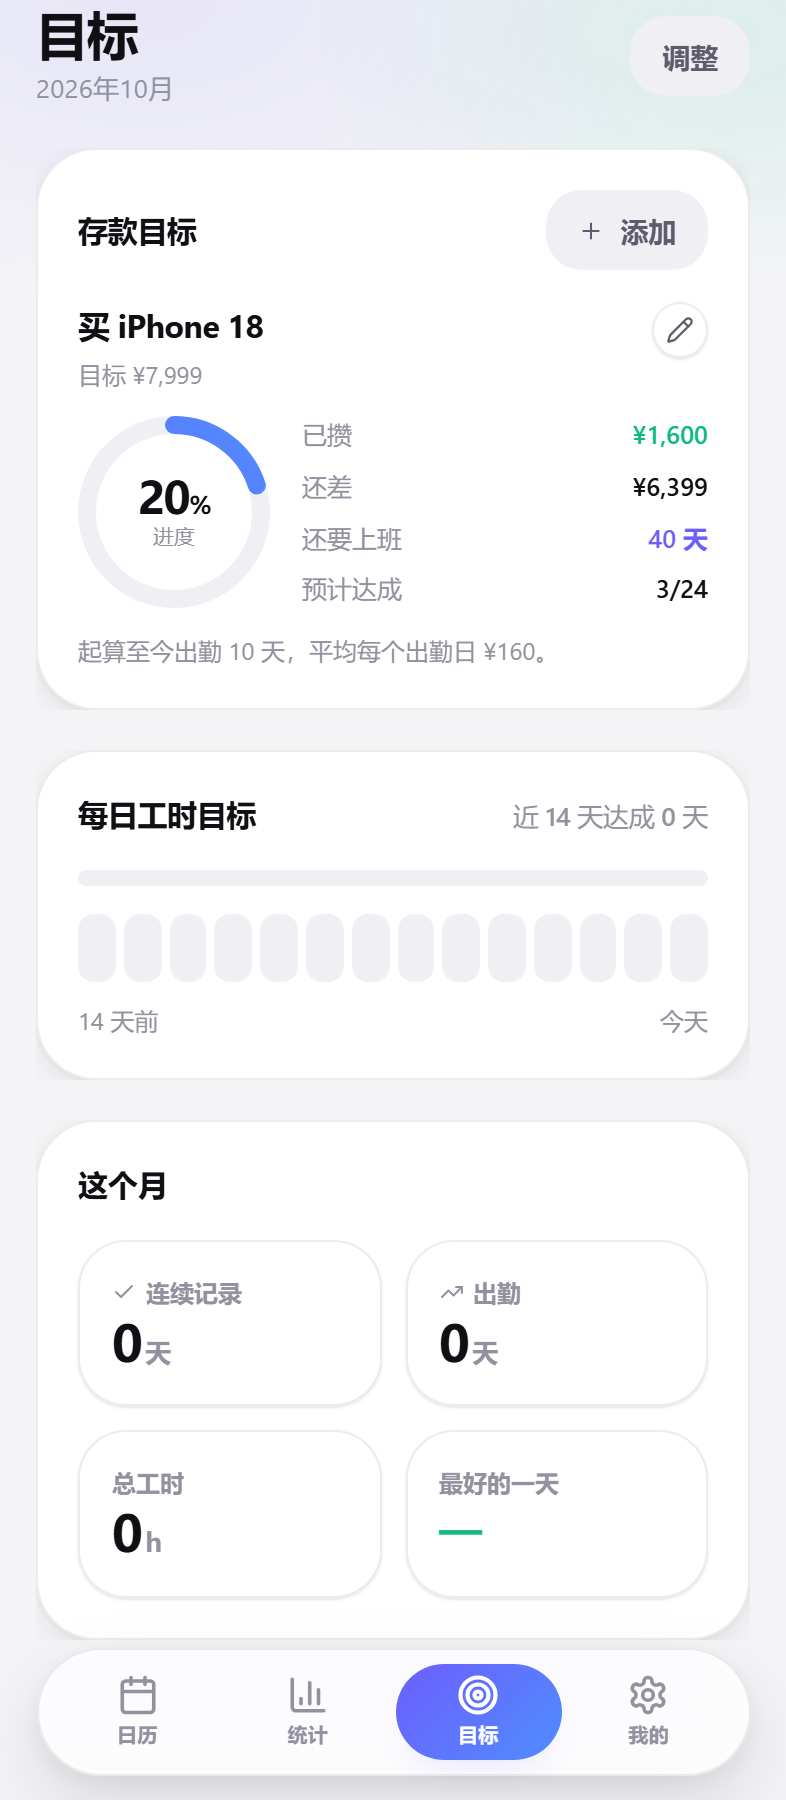
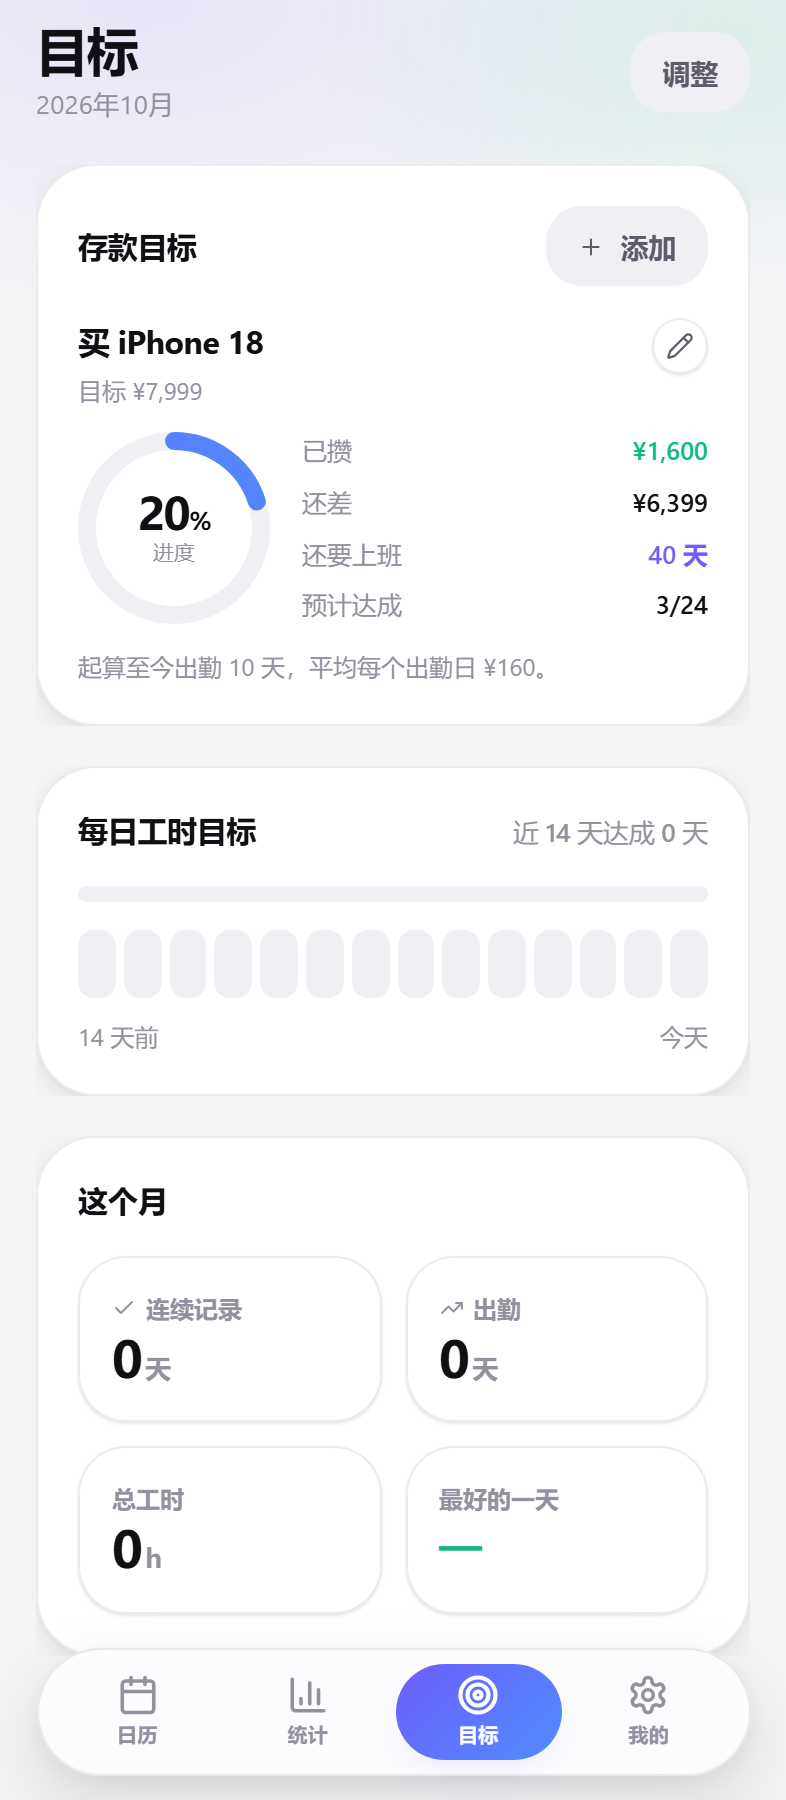
Releases 页一直是空的 —— 修好并接入版本号
用户问「Releases 里面你不更新吗」，去查了一下：**一个 Release 都没有，连 tag 都没有**。

根因：
  工作流里那步写的是 if: github.event_name == 'release'，
  意思是「只有被 release 事件触发时才跑」—— 但本工作流是 push 触发的，
  所以这一步从来没执行过。

改动：
1. 改成 if: github.event_name == 'push'，固定 tag=latest 滚动更新同一个 Release
   - 下载链接永久有效、永远是构建：releases/latest/download/工时记.apk
   - 每次推送到主分支自动重新构建并更新附件
   - 不再需要用户去 Actions 里翻产物、解压 zip（产物只留 90 天）
2. 版本号从 package.json 注入 APK（scripts/inject-signing.py）
   - versionName = 版本号；versionCode = major*10000+minor*100+patch（只增不减）
   - 目的：Releases 页写的版本号 == 手机「应用信息」里看到的版本号
   - 顺手修了该脚本在 Windows 上必崩的问题：Python stdout 默认 GBK，
     打不出 ✓ 和中文会抛 UnicodeEncodeError（CI 在 ubuntu 上是 UTF-8 所以没暴露）
3. CI 新增「校验 APK 里的版本号与 package.json 一致」：用 aapt2 dump badging
   读真实 APK 的 versionName 对比，不一致直接失败
4. 新增 scripts/check-inject-signing.mjs：20 项断言（幂等、versionCode 严格递增、
   非 semver 回退、缺文件时非零退出），已进 npm run verify 与 CI

验证：
- check:signing 20 项通过；versionCode 1.0.0→10000 / 1.0.1→10001 / 1.1.0→10100 / 2.0.0→20000
- 工作流 YAML 用 PyYAML 解析通过，26 个步骤顺序正确
- verify 全绿：工资 53 / 存款 67 / 签名注入 20 / 节假日 171 / Android 资源 8 / typecheck / build
- 版本号 1.0.0 → 1.1.0（本轮加了批量记账、累计、存款目标）

diff --git a/scripts/inject-signing.py b/scripts/inject-signing.py
@@ -20,6 +20,15 @@ import re
 import sys
 from pathlib import Path
 
+# Windows 上 Python 的 stdout 默认是系统 ANSI（中文机器上是 GBK），
+# 打不出 ✓ 和中文，直接抛 UnicodeEncodeError 让脚本失败。
+# CI 跑在 ubuntu 上不会有这问题，但本地一跑就莫名挂掉 —— 统一强制 UTF-8。
+for _stream in (sys.stdout, sys.stderr):
+    try:
+        _stream.reconfigure(encoding="utf-8")
+    except Exception:  # noqa: BLE001
+        pass
+
 PATH = Path("android/app/build.gradle")
 
 if not PATH.exists():
@@ -73,6 +82,36 @@ else:
         )
         print("✓ 已为 debug 指定固定签名")
 
+# ---------- 版本号：从 package.json 注入 ----------
+# 目的：Releases 页写的版本号，和装到手机后在「应用信息」里看到的版本号一致。
+# versionCode 用 major*10000 + minor*100 + patch，保证只增不减。
+import json
+
+PKG = Path("package.json")
+VERSION = "1.0.0"
+if PKG.exists():
+    try:
+        VERSION = str(json.loads(PKG.read_text(encoding="utf-8")).get("version") or "1.0.0")
+    except Exception as e:  # noqa: BLE001
+        print(f"· 读 package.json 版本失败（{e}），回退 {VERSION}")
+
+_m = re.match(r"^(\d+)\.(\d+)\.(\d+)", VERSION)
+CODE = int(_m.group(1)) * 10000 + int(_m.group(2)) * 100 + int(_m.group(3)) if _m else 1
+
+if re.search(r"^\s*versionCode\s+\d+", src, re.M):
+    src = re.sub(r"^(\s*)versionCode\s+\d+", rf"\g<1>versionCode {CODE}", src, count=1, flags=re.M)
+    print(f"✓ versionCode → {CODE}")
+else:
+    print("· 未找到 versionCode，跳过")
+
+if re.search(r'^\s*versionName\s+"[^"]*"', src, re.M):
+    src = re.sub(
+        r'^(\s*)versionName\s+"[^"]*"', rf'\g<1>versionName "{VERSION}"', src, count=1, flags=re.M
+    )
+    print(f"✓ versionName → {VERSION}")
+else:
+    print("· 未找到 versionName，跳过")
+
 # 结构自检：大括号必须配平，否则 Gradle 直接语法报错
 depth = 0
 for ch in src:
@@ -93,6 +132,15 @@ for field in ("storeFile", "storePassword", "keyAlias", "keyPassword"):
     if not re.search(rf'{field} .*"', src):
         print(f"✗ {field} 的值缺少引号 —— Groovy 会报语法错误", file=sys.stderr)
         sys.exit(1)
+
+# 版本号自检：确认真的写进去了（写错版本号不会让构建失败，但会让人对不上号）
+if f'versionName "{VERSION}"' not in src:
+    print(f"✗ versionName 未写成功，期望 {VERSION}", file=sys.stderr)
+    sys.exit(1)
+if f"versionCode {CODE}" not in src:
+    print(f"✗ versionCode 未写成功，期望 {CODE}", file=sys.stderr)
+    sys.exit(1)
+print(f"✓ 版本号已写入：versionName={VERSION} versionCode={CODE}")
 
 PATH.write_text(src, encoding="utf-8", newline="\n")
 

diff --git a/README.md b/README.md
@@ -112,16 +112,29 @@ git push -u origin main
 
 ### 3. 下载安装包
 
-在构建页面底部 **Artifacts** 区域下载 `工时记-APK`（一个 zip），解压后有两个 apk：
+**推荐：直接去 Releases 页拿**（不用解压、链接永久有效、每次推送自动更新）：
+
+> **https://github.com/Animal2404/workhours-app/releases/latest**
+>
+> 点 **`工时记.apk`** 下载即可。这个链接永远是**最新构建**，不用每次回来换。
+
+也可以从构建页面拿（**Artifacts** 区域，保留 90 天）：
 
 | 文件 | 用途 |
 |---|---|
-| `工时记-debug.apk` | **直接装**，测试用，已自动签名 |
+| `工时记-debug.apk` | 测试用，已自动签名 |
 | `工时记-release.apk` | 正式包，体积更小 |
 
 传到手机点击安装（需要允许「安装未知来源应用」）。
 
-> **建议装 debug 那个**：debug 包用 Android 默认调试签名，安装最省事。
+> **两个包用的是同一把固定签名**，所以**都能直接覆盖安装、本地工时数据不丢**。
+> 只有第一次装（或之前用的是别的签名）才需要先卸载旧版。
+
+> **更新机制**：每次推送到主分支，CI 都会重新构建并**滚动更新同一个 Release**
+> （固定 tag `latest`，所以上面那个链接不会变）。历史版本可在 Actions 的构建产物里取。
+> 版本号取自 `package.json`，构建时会注入进 APK 并在 CI 里核对
+> （`aapt2 dump badging` 读出来的 `versionName` 必须和 `package.json` 一致，
+> 不一致直接让构建失败 —— 免得 Releases 页写的版本和手机「应用信息」里显示的对不上）。
 
 ### 4. 想要正式签名？（可选）
 
@@ -301,6 +314,7 @@ MIT License
 | `npm run verify` | **一键全跑**：工资 + 存款目标 + 节假日 + Android 资源 + 类型 + 构建 |
 | `npm run check` | 工资引擎 53 项断言（含用户给的「10 小时 × 20 元 = 200」） |
 | `npm run check:savings` | 存款目标 / 累计 / 逐月明细 / 老数据迁移 67 项断言 |
+| `npm run check:signing` | 签名与版本号注入脚本 20 项（幂等、versionCode 递增、异常输入不写坏文件） |
 | `npm run check:features` | 批量记账 / 累计 / 存款目标 / 提醒 端到端 43 项（需浏览器） |
 | `npm run check:holidays` | 节假日数据 171 项断言（放假区间 / 调休 / 非法输入 / 遍历 1096 天） |
 | `npm run check:android` | Android 资源自检（XML 合法性 + 深浅背景色与 `tokens.css` 三方一致） |
